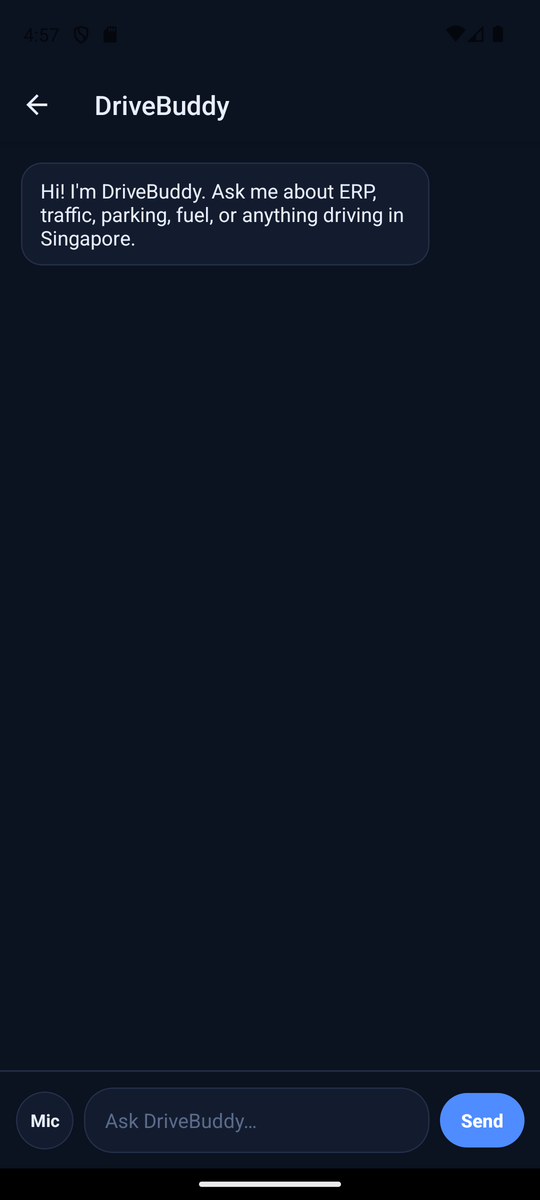
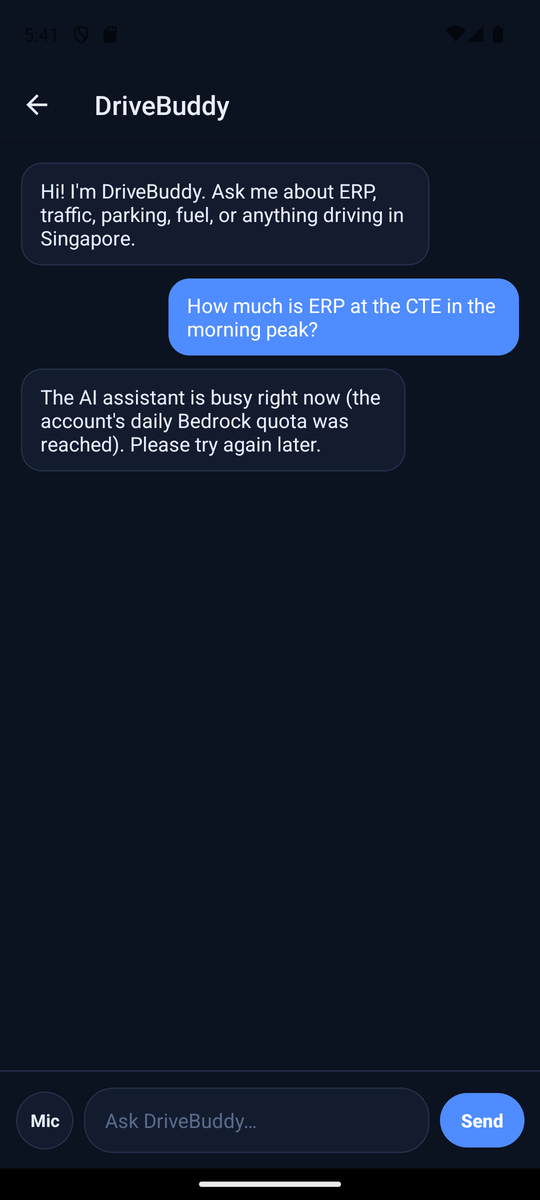
fix(trip): reliable SVG route trace; recapture trip + AI screenshots
The WebView/Leaflet map rendered blank on the headless emulator (software and host
GPU), so the trip screen uses an SVG route trace (grid background, start/end
markers) that renders everywhere. Recaptured from manual testing on the device:
trip screen shows the driven path; AI Assistant shows a real question/response
round-trip (response is the account's daily-Bedrock-quota notice). Removed the
unused react-native-webview dependency.

Changed region(s): [[0.0593, 0.2158, 0.9778, 0.4008]]

diff --git a/apps/drivebuddy/app/trip/[routeId].tsx b/apps/drivebuddy/app/trip/[routeId].tsx
@@ -2,7 +2,7 @@ import { useEffect, useState } from "react";
 import { ActivityIndicator, ScrollView, StyleSheet, Text, View } from "react-native";
 import { SafeAreaView } from "react-native-safe-area-context";
 import { useLocalSearchParams } from "expo-router";
-import Svg, { Circle, Polyline } from "react-native-svg";
+import Svg, { Circle, Line, Polyline } from "react-native-svg";
 import { api, type RouteDetail, type TripSummary } from "@/lib/api";
 
 export default function TripScreen() {
@@ -42,7 +42,7 @@ export default function TripScreen() {
   return (
     <SafeAreaView style={styles.container} edges={["bottom"]}>
       <ScrollView contentContainerStyle={styles.inner}>
-        <RoutePath points={route?.points ?? []} />
+        <RouteMap points={route?.points ?? []} />
 
         <View style={styles.statsRow}>
           <Stat value={(route?.totalDistance ?? 0).toFixed(2)} unit="km" label="Distance" />
@@ -64,10 +64,10 @@ export default function TripScreen() {
   );
 }
 
-function RoutePath({ points }: { points: { latitude: number; longitude: number }[] }) {
+function RouteMap({ points }: { points: { latitude: number; longitude: number }[] }) {
   const W = 320;
   const H = 200;
-  const pad = 16;
+  const pad = 18;
   if (points.length < 2) {
     return (
       <View style={[styles.map, { height: H, justifyContent: "center", alignItems: "center" }]}>
@@ -84,22 +84,33 @@ function RoutePath({ points }: { points: { latitude: number; longitude: number }
   const spanLat = maxLat - minLat || 1e-6;
   const spanLng = maxLng - minLng || 1e-6;
   const scale = Math.min((W - pad * 2) / spanLng, (H - pad * 2) / spanLat);
+  const offX = (W - spanLng * scale) / 2;
+  const offY = (H - spanLat * scale) / 2;
   const project = (p: { latitude: number; longitude: number }) => ({
-    x: pad + (p.longitude - minLng) * scale,
-    y: H - pad - (p.latitude - minLat) * scale, // invert y (north up)
+    x: offX + (p.longitude - minLng) * scale,
+    y: H - offY - (p.latitude - minLat) * scale, // invert y (north up)
   });
   const pts = points.map(project);
   const polyline = pts.map((p) => `${p.x},${p.y}`).join(" ");
   const start = pts[0]!;
   const end = pts[pts.length - 1]!;
+  const grid = [0.2, 0.4, 0.6, 0.8];
 
   return (
     <View style={[styles.map, { height: H }]}>
       <Svg width={W} height={H}>
-        <Polyline points={polyline} fill="none" stroke="#4f8cff" strokeWidth={3} strokeLinejoin="round" />
-        <Circle cx={start.x} cy={start.y} r={5} fill="#7ee0a2" />
-        <Circle cx={end.x} cy={end.y} r={5} fill="#e5484d" />
+        {/* faint grid so the route reads as a mapped trace, not an empty box */}
+        {grid.map((g) => (
+          <Line key={`v${g}`} x1={W * g} y1={0} x2={W * g} y2={H} stroke="#1b2740" strokeWidth={1} />
+        ))}
+        {grid.map((g) => (
+          <Line key={`h${g}`} x1={0} y1={H * g} x2={W} y2={H * g} stroke="#1b2740" strokeWidth={1} />
+        ))}
+        <Polyline points={polyline} fill="none" stroke="#4f8cff" strokeWidth={4} strokeLinejoin="round" strokeLinecap="round" />
+        <Circle cx={start.x} cy={start.y} r={6} fill="#7ee0a2" stroke="#fff" strokeWidth={2} />
+        <Circle cx={end.x} cy={end.y} r={6} fill="#e5484d" stroke="#fff" strokeWidth={2} />
       </Svg>
+      <Text style={styles.mapTag}>Route trace</Text>
     </View>
   );
 }
@@ -137,6 +148,7 @@ const styles = StyleSheet.create({
     alignItems: "center",
   },
   muted: { color: "#5a6b8c", fontSize: 13 },
+  mapTag: { position: "absolute", bottom: 8, left: 12, color: "#5a6b8c", fontSize: 11 },
   statsRow: { flexDirection: "row", gap: 10 },
   stat: {
     flex: 1,
